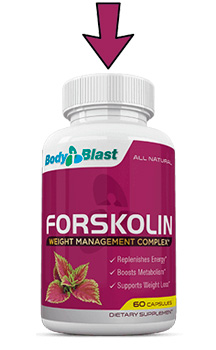
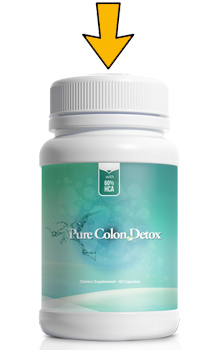
change offer

diff --git a/index.html b/index.html
@@ -77,9 +77,9 @@
           <p>I found out that today no one loses weight with proper nutrition and sports. In general, you can eat anything you want and still lose weight.</p>
           <p>I decided to know more about it
           </p>
-          <p>The goal of the diet is to use special product – fat burner, which burns off extra calories gradually. It is a special diet weight-loss product Forskolin Body Blast. All you need for losing weight –to take it twice a day.
+          <p>The goal of the diet is to use special product – fat burner, which burns off extra calories gradually. It is a special diet weight-loss product Pure Colon Detox. All you need for losing weight –to take it twice a day.
           </p>
-          <p>Of course, I didn’t buy it immediately, as knew nothing about this product. I went to the nutritionist to ask what experienced doctors think about "slimming" with Forskolin Body Blast. Below I will write what the doctor said.
+          <p>Of course, I didn’t buy it immediately, as knew nothing about this product. I went to the nutritionist to ask what experienced doctors think about "slimming" with Pure Colon Detox. Below I will write what the doctor said.
           </p>
 
       </div>
@@ -89,17 +89,17 @@
       </div>
       <h2>
           <div class="info-txt">
-              <p>Nicole White, dietitian: Our doctors started to advise their patients to use powerful fat burners long ago. Forskolin Body Blast, you're talking about, - is the newest product in dietology. It is really a very powerful fat burner. It consists of a large number of effective ingredients - fat burners. All this "mix" creates a stunning effect. The most amazing is that after long trials, we found out that the fat is burned considerably, that you can eat anything you want at any time - just use twice a day Forskolin Body Blast. I think that anyone who wants to lose weight should try Forskolin Body Blast.
+              <p>Nicole White, dietitian: Our doctors started to advise their patients to use powerful fat burners long ago. Pure Colon Detox, you're talking about, - is the newest product in dietology. It is really a very powerful fat burner. It consists of a large number of effective ingredients - fat burners. All this "mix" creates a stunning effect. The most amazing is that after long trials, we found out that the fat is burned considerably, that you can eat anything you want at any time - just use twice a day Pure Colon Detox. I think that anyone who wants to lose weight should try Pure Colon Detox.
               </p>
           </div>
       </h2>
-      <h2>I began to take Forskolin Body Blast more than once per day!</h2>
+      <h2>I began to take Pure Colon Detox more than once per day!</h2>
       <div class="info-txt">
-          <p>On doctor’s advice I ordered Forskolin Body Blast on the official website. I received it very quickly and I started to use after each meal. A week later I dropped 6 kg / 13 lbs - my joy was boundless! I did not stop and decided to lose ALL extra kilograms :)
+          <p>On doctor’s advice I ordered Pure Colon Detox on the official website. I received it very quickly and I started to use after each meal. A week later I dropped 6 kg / 13 lbs - my joy was boundless! I did not stop and decided to lose ALL extra kilograms :)
           </p>
           <p>Inspired by the first results I continued to lose weight!
           </p>
-          <p>After one month I was just amazed by the results, achieved thanks to Forskolin Body Blast! It was just incredible for me!
+          <p>After one month I was just amazed by the results, achieved thanks to Pure Colon Detox! It was just incredible for me!
           </p>
           <p>At that time my weight was 73 kg / 160 lbs, I lost 17 kg / 37 lbs!
           </p>
@@ -107,7 +107,7 @@
           </p>
           <p>My final victory was losing 32 kg / 70 lbs!
           </p>
-          <p>After two weeks I lost last extra 7 kg / 15 lbs! My joy was boundless - now I am slim again and dropped even more than wanted! My advice to slimmers - it is important to understand that you do it for yourself, weight loss begins with self-love. You should come to senses and start acting! Just use Forskolin Body Blast and lose weight! Attached is the <a   href="http://mytds.tech/kbl">website</a> for ordering Forskolin Body Blast.
+          <p>After two weeks I lost last extra 7 kg / 15 lbs! My joy was boundless - now I am slim again and dropped even more than wanted! My advice to slimmers - it is important to understand that you do it for yourself, weight loss begins with self-love. You should come to senses and start acting! Just use Pure Colon Detox and lose weight! Attached is the <a   href="http://mytds.tech/kbl">website</a> for ordering Pure Colon Detox.
           </p>
       </div>
       <h2>These are the stages of my weight loss<br>Just two months!</h2>
@@ -137,7 +137,7 @@
       </h2>
 
       <h2>
-          <a href="http://mytds.tech/kbl">here is website Forskolin Body Blast</a>
+          <a href="http://mytds.tech/kbl">here is website Pure Colon Detox</a>
       </h2>
 
       <div>
@@ -153,7 +153,7 @@
                   <i><b></b></i>
                   17.04.2015, в 18:42<br><h6><a  href="http://mytds.tech/kbl">Nicole</a></h6>
                   <p>
-                      Kelly, your blog - is super!!! very motivating. Also use Forskolin Body Blast, ordered it <a  href="http://mytds.tech/kbl">here...</a>
+                      Kelly, your blog - is super!!! very motivating. Also use Pure Colon Detox, ordered it <a  href="http://mytds.tech/kbl">here...</a>
                   </p>
                   <img src="img/17.jpg" alt="">
               </div>
@@ -180,7 +180,7 @@
               <div>
                   <i><b></b></i>
                   14.04.2015, в 18:20<br><h6><a  href="http://mytds.tech/kbl">Tina</a></h6>
-                  <p>Kelly, thank you greatly for the article! I tried different ways to lose weight, even crazy correct counting of calories ruined my life as it could, it was impossible to visit somebody or go to the cafe, without taking a kitchen scale and notebook with calculator ... Now during 4 weeks I lost 18 kg (39 lbs), without doing active sports (though I try to walk frequently and occasionally do light morning exercises when I am able to win morning laziness), without taking fasting days and making restrictions (cracking after midnight prawns with mayonnaise sauce and drinking dry wine) I'm happy and my boyfriend (now my future husband) too, even more, he takes me on his hands, though I plan to lose more 8 kilograms (17 lbs), till my wedding I’ll do it  for sure! one more thing, I always had problems with my skin! pimples, acne, went to the cosmetician for a monthly face cleaning, using Forskolin Body Blast, my skin became a million times better! I stopped going to the cosmetician! acne, huge red interior and small convex white pimples disappeared, skin was not oily anymore, despite the abundance of fatty food! Most important is that I am not afraid of overeating!  because I am always well-fed and happy! Forskolin Body Blast-is super!
+                  <p>Kelly, thank you greatly for the article! I tried different ways to lose weight, even crazy correct counting of calories ruined my life as it could, it was impossible to visit somebody or go to the cafe, without taking a kitchen scale and notebook with calculator ... Now during 4 weeks I lost 18 kg (39 lbs), without doing active sports (though I try to walk frequently and occasionally do light morning exercises when I am able to win morning laziness), without taking fasting days and making restrictions (cracking after midnight prawns with mayonnaise sauce and drinking dry wine) I'm happy and my boyfriend (now my future husband) too, even more, he takes me on his hands, though I plan to lose more 8 kilograms (17 lbs), till my wedding I’ll do it  for sure! one more thing, I always had problems with my skin! pimples, acne, went to the cosmetician for a monthly face cleaning, using Pure Colon Detox, my skin became a million times better! I stopped going to the cosmetician! acne, huge red interior and small convex white pimples disappeared, skin was not oily anymore, despite the abundance of fatty food! Most important is that I am not afraid of overeating!  because I am always well-fed and happy! Pure Colon Detox-is super!
                   </p>
                   <img src="img/19.jpg" alt="">
                   <div>
@@ -200,7 +200,7 @@
               <div>
                   <i><b></b></i>
                   12.04.2015, в 22:47<br><h6><a  href="http://mytds.tech/kbl">Julia</a></h6>
-                  <p>As Kelly truly stated in the article, I sat for a long time "in the bush", i.e. was invisible in the group and no registration on the site. Then finally I bought scales, registered and now every week rejoice at my results)) For the first week I was able to lose 5 kg (11 lbs). Honestly, it was amazing and unusual)) I am not going to stop and continue losing weight! Thank you for Forskolin Body Blast!
+                  <p>As Kelly truly stated in the article, I sat for a long time "in the bush", i.e. was invisible in the group and no registration on the site. Then finally I bought scales, registered and now every week rejoice at my results)) For the first week I was able to lose 5 kg (11 lbs). Honestly, it was amazing and unusual)) I am not going to stop and continue losing weight! Thank you for Pure Colon Detox!
                   </p>
                   <img src="img/18.jpg" alt="">
               </div>
@@ -213,7 +213,7 @@
               <div>
                   <i><b></b></i>
                   11.04.2015, в 02:19<br><h6><a  href="http://mytds.tech/kbl">Nicole</a></h6>
-                  <p>Don’t torture yourself, quickly join and lose weight with pleasure))! Also lost weight using Forskolin Body Blast</p>
+                  <p>Don’t torture yourself, quickly join and lose weight with pleasure))! Also lost weight using Pure Colon Detox</p>
 
               </div>
 
@@ -245,7 +245,7 @@
               <div>
                   <i><b></b></i>
                   08.04.2015, в 14:31<br><h6><a  href="http://mytds.tech/kbl">Rose</a></h6>
-                  <p>Losing weight for 1,5 months and minus -28kg (61 lbs), it was very interesting to read Kelly’s detailed story, there was little motivation to lose weight, but one day, looking at myself in the mirror I saw a puffy fat OLD WOMAN, and I'm only 21, despite the fact that my husband weighed 60 kg (132 lbs), one can imagine how we looked together !!! Frankly I believed in the diet immediately, my husband supported me, the first result did not wait -5kg (11 lbs) in the first week, very glad that I didn’t torture myself by other diets, starvation, buckwheat with yogurt and lettuce, Forskolin Body Blast is my first and last diet - lifestyle!! Pudgy girls do not despair, there is a magic wand that will help you to start your new life! Start now!!! Thank you Kelly!
+                  <p>Losing weight for 1,5 months and minus -28kg (61 lbs), it was very interesting to read Kelly’s detailed story, there was little motivation to lose weight, but one day, looking at myself in the mirror I saw a puffy fat OLD WOMAN, and I'm only 21, despite the fact that my husband weighed 60 kg (132 lbs), one can imagine how we looked together !!! Frankly I believed in the diet immediately, my husband supported me, the first result did not wait -5kg (11 lbs) in the first week, very glad that I didn’t torture myself by other diets, starvation, buckwheat with yogurt and lettuce, Pure Colon Detox is my first and last diet - lifestyle!! Pudgy girls do not despair, there is a magic wand that will help you to start your new life! Start now!!! Thank you Kelly!
                   </p>
 
                   <img src="img/20.jpg" alt="">
@@ -273,13 +273,13 @@
               <div>
                   <i><b></b></i>
                   06.04.2015, в 13:01<br><h6><a  href="http://mytds.tech/kbl">Mia</a></h6>
-                  <p>Thanks to Kelly I changed my life for the better, lost 15kg / 33 lbs and it is not a limit. Many people criticize this kind of weight loss, but is it useful for a young girl or guy to be thick and at the same time to have problems with childbearing, to have difficulties when climbing stairs or simply running anywhere without efforts. Start now and you will succeed as many could do long ago! Forskolin Body Blast is the leader!
+                  <p>Thanks to Kelly I changed my life for the better, lost 15kg / 33 lbs and it is not a limit. Many people criticize this kind of weight loss, but is it useful for a young girl or guy to be thick and at the same time to have problems with childbearing, to have difficulties when climbing stairs or simply running anywhere without efforts. Start now and you will succeed as many could do long ago! Pure Colon Detox is the leader!
                   </p>
                   <img src="img/22.jpg" alt="">
                   <div>
                       18.04.2015, в 12:03<br><h6><a  href="http://mytds.tech/kbl">Kelly</a></h6>
                       <p>
-                          I am already not the only one who lost weight with the help of Forskolin Body Blast. Some of my friends and mates have also ordered several bottels of Forskolin Body Blast. I can say that none of them is dissatisfied. Therefore, I am 100 percent sure in the effectiveness of this supplement. You can do this! So pull yourself together and start doing something!
+                          I am already not the only one who lost weight with the help of Pure Colon Detox. Some of my friends and mates have also ordered several bottels of Pure Colon Detox. I can say that none of them is dissatisfied. Therefore, I am 100 percent sure in the effectiveness of this supplement. You can do this! So pull yourself together and start doing something!
 
 
                           <br><br>Girls I just wanted to ask you to write me about your results: how much you have lost. This is very exciting to know how other people benefit from taking this supplement.</p>
